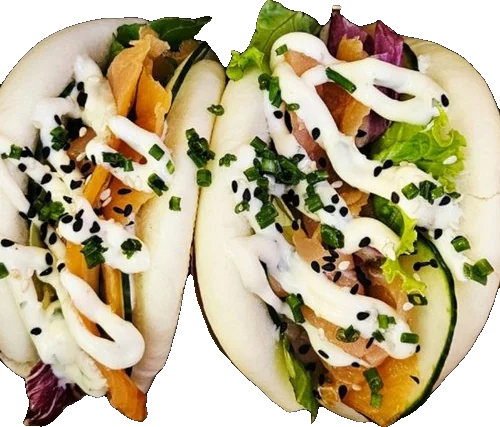
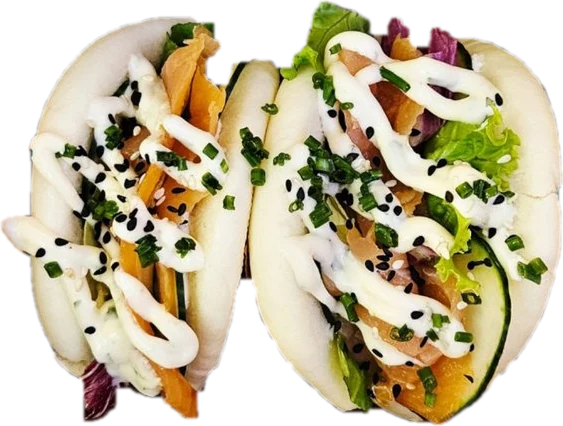
Bao kivágások: slim salmon újravágva, a többiről levéve a doboz árnyékos papírbélése
Claude-Session: https://claude.ai/code/session_01CF3hzdauozeAqS9rh6DmZr

diff --git a/index.html b/index.html
@@ -21,8 +21,8 @@
   <link rel="icon" href="favicon.ico" sizes="any">
   <link rel="apple-touch-icon" href="apple-touch-icon.png">
   <link rel="preload" href="assets/fonts/bagel-fat-one-latin.woff2" as="font" type="font/woff2" crossorigin>
-  <link rel="preload" href="img/food/bao-pulled-duck.webp" as="image">
-  <link rel="stylesheet" href="assets/style.css?v=20261030-5">
+  <link rel="preload" href="img/food/bao-pulled-duck.webp?v=2" as="image">
+  <link rel="stylesheet" href="assets/style.css?v=20261030-6">
   <script type="application/ld+json">
   {
     "@context": "https://schema.org",
@@ -83,7 +83,7 @@
         <span class="line" aria-hidden="true">Buns</span>
         <span class="sr-only">SUKI – bao buns és sweet sushi Győrben</span>
       </h1>
-      <img class="hero__food" src="img/food/bao-pulled-duck.webp" alt="Két pulled duck bao bun tépett kacsával, chili mayóval és pirított hagymával" width="473" height="356">
+      <img class="hero__food" src="img/food/bao-pulled-duck.webp?v=2" alt="Két pulled duck bao bun tépett kacsával, chili mayóval és pirított hagymával" width="449" height="350">
       <img class="hero__side hero__side--left" src="img/food/limo-mango.webp" alt="" width="249" height="787">
       <img class="hero__side hero__side--right" src="img/food/bowl-lazac.webp" alt="" width="723" height="726">
 
@@ -124,31 +124,31 @@
 
     <div class="items">
       <article class="item">
-        <div class="item__img"><img src="img/food/bao-crispy-tofu.webp" alt="Crispy tofu bao bun" width="453" height="348" loading="lazy"></div>
+        <div class="item__img"><img src="img/food/bao-crispy-tofu.webp?v=2" alt="Crispy tofu bao bun" width="437" height="331" loading="lazy"></div>
         <h3>Crispy tofu</h3>
         <p>tempurált tofu, kimchi, uborka, kimchi szezám, házi vegán chili mayo, koriander</p>
         <span class="price">2590<small>Ft</small></span>
       </article>
       <article class="item">
-        <div class="item__img"><img src="img/food/bao-chicken-kimchi.webp" alt="Chicken-kimchi bao bun" width="463" height="356" loading="lazy"></div>
+        <div class="item__img"><img src="img/food/bao-chicken-kimchi.webp?v=2" alt="Chicken-kimchi bao bun" width="456" height="367" loading="lazy"></div>
         <h3>Chicken-kimchi</h3>
         <p>ropogós csirke, kimchi ketchup, uborka, kimchi szezám, koriander</p>
         <span class="price">2790<small>Ft</small></span>
       </article>
       <article class="item">
-        <div class="item__img"><img src="img/food/bao-wasabi-shrimp.webp" alt="Wasabi-shrimp bao bun" width="451" height="366" loading="lazy"></div>
+        <div class="item__img"><img src="img/food/bao-wasabi-shrimp.webp?v=2" alt="Wasabi-shrimp bao bun" width="446" height="366" loading="lazy"></div>
         <h3>Wasabi-shrimp</h3>
         <p>tempurált rák, uborka, savanyított káposzta, wasabi mayo, szezám, snidling</p>
         <span class="price">2790<small>Ft</small></span>
       </article>
       <article class="item">
-        <div class="item__img"><img src="img/food/bao-pulled-duck.webp" alt="Pulled duck bao bun" width="473" height="356" loading="lazy"></div>
+        <div class="item__img"><img src="img/food/bao-pulled-duck.webp?v=2" alt="Pulled duck bao bun" width="449" height="350" loading="lazy"></div>
         <h3>Pulled duck</h3>
         <p>tépett kacsa, uborka, savanyított lilahagyma, chili mayo, pirított hagyma, snidling</p>
         <span class="price">3490<small>Ft</small></span>
       </article>
       <article class="item">
-        <div class="item__img"><img src="img/food/bao-slim-salmon.webp" alt="Slim salmon bao bun" width="500" height="427" loading="lazy"></div>
+        <div class="item__img"><img src="img/food/bao-slim-salmon.webp?v=2" alt="Slim salmon bao bun" width="563" height="426" loading="lazy"></div>
         <h3>Slim salmon</h3>
         <p>krémsajt, füstölt lazac, saláta, citrusos majonéz, szezám, snidling</p>
         <span class="price">2990<small>Ft</small></span>
